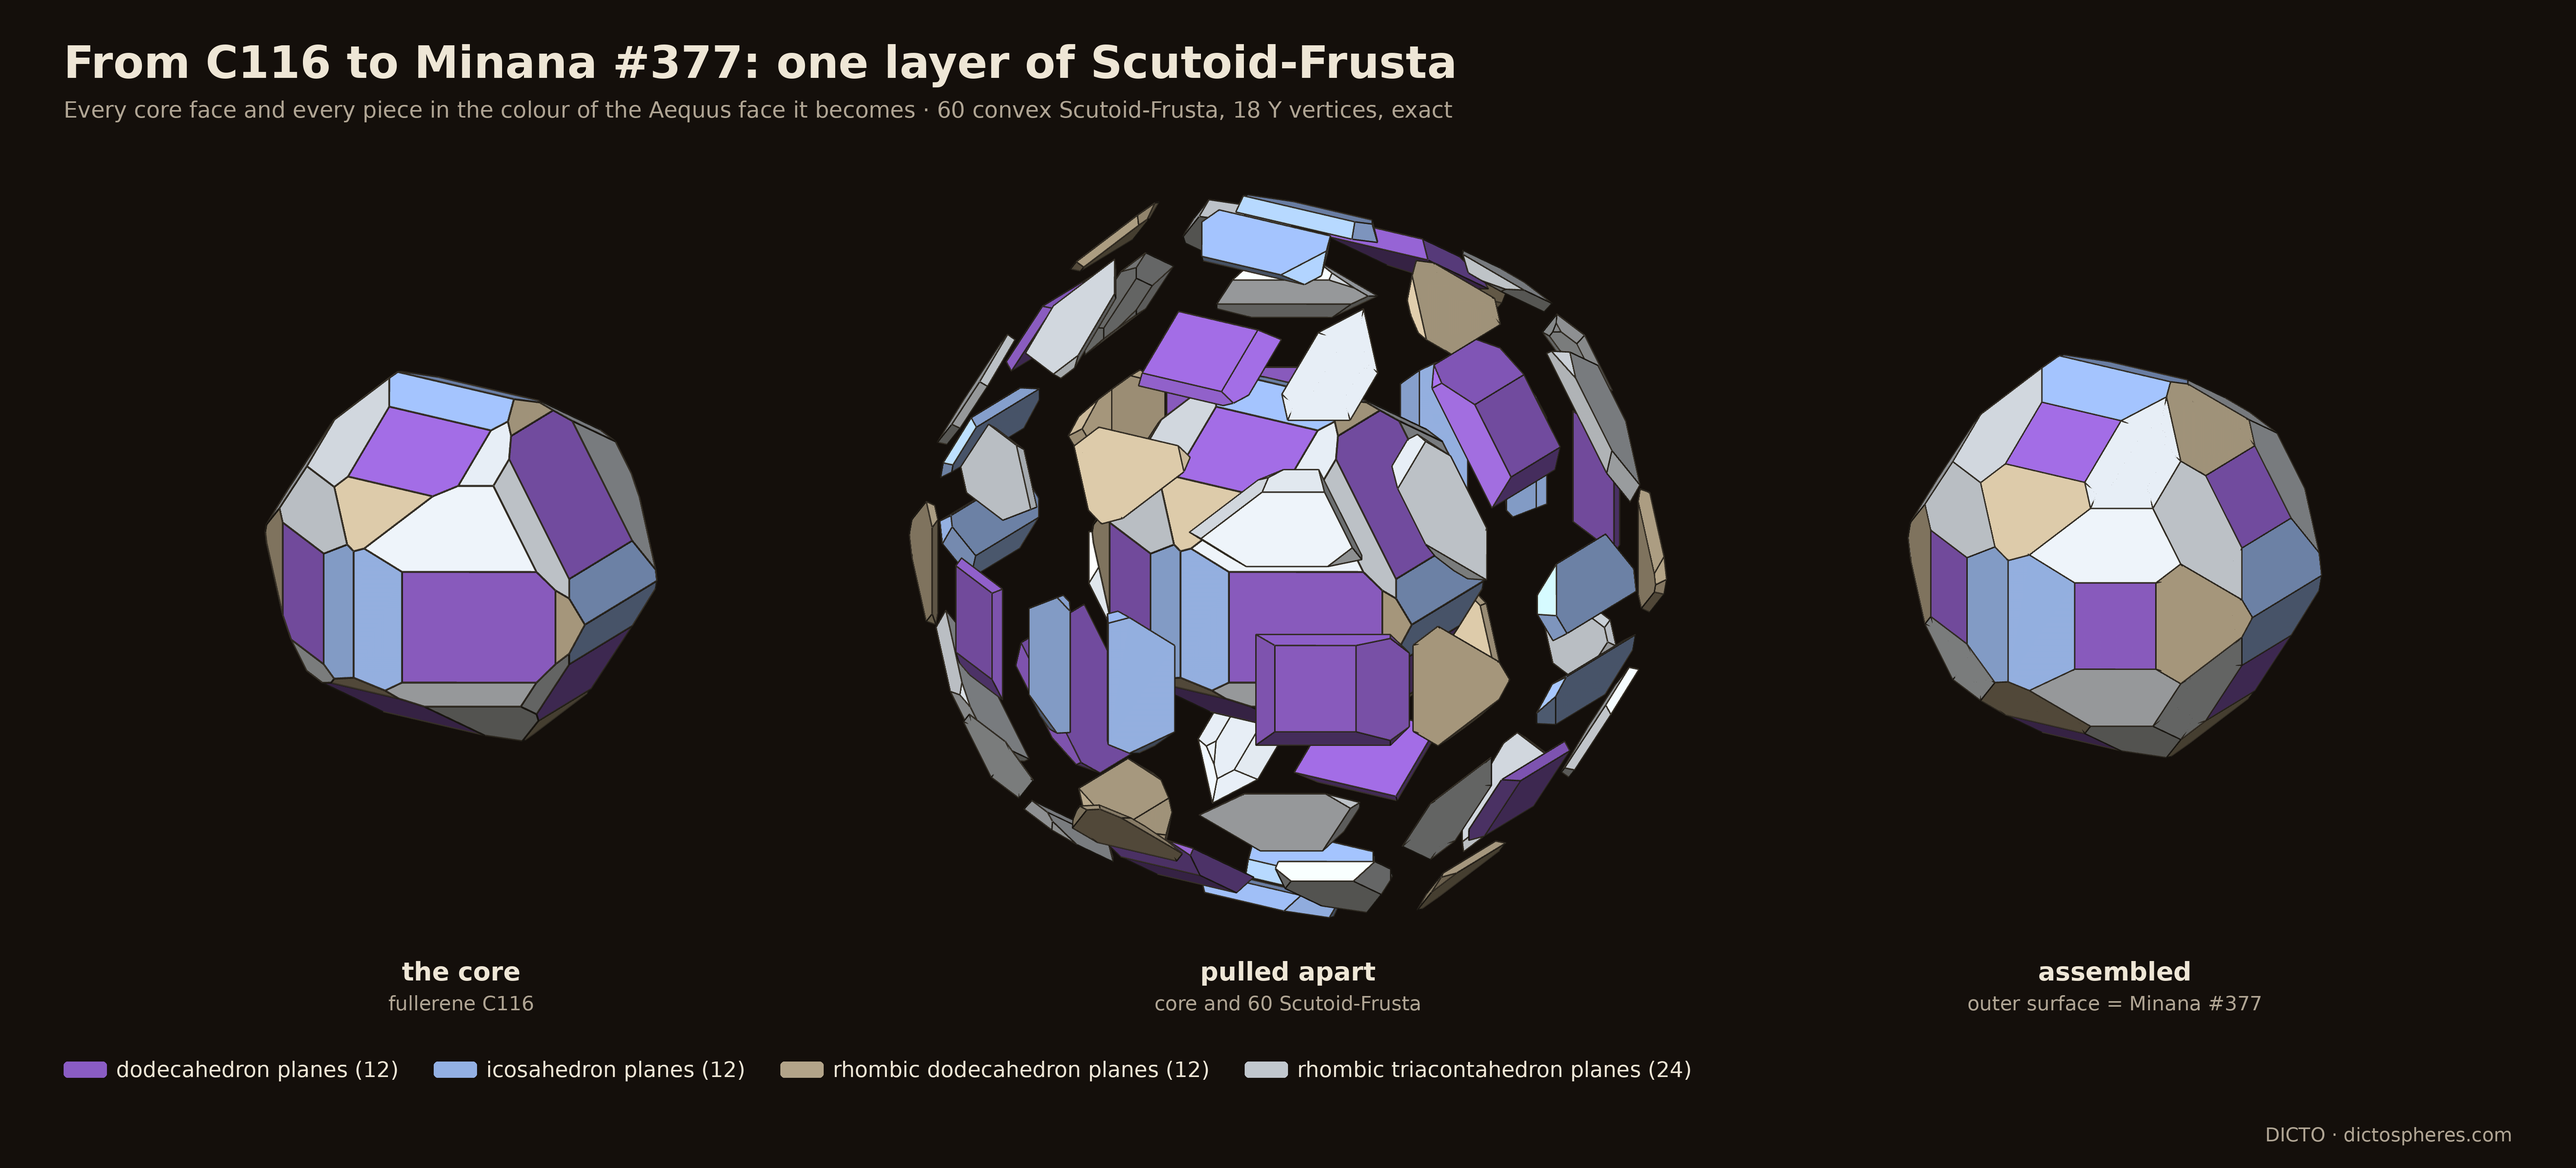
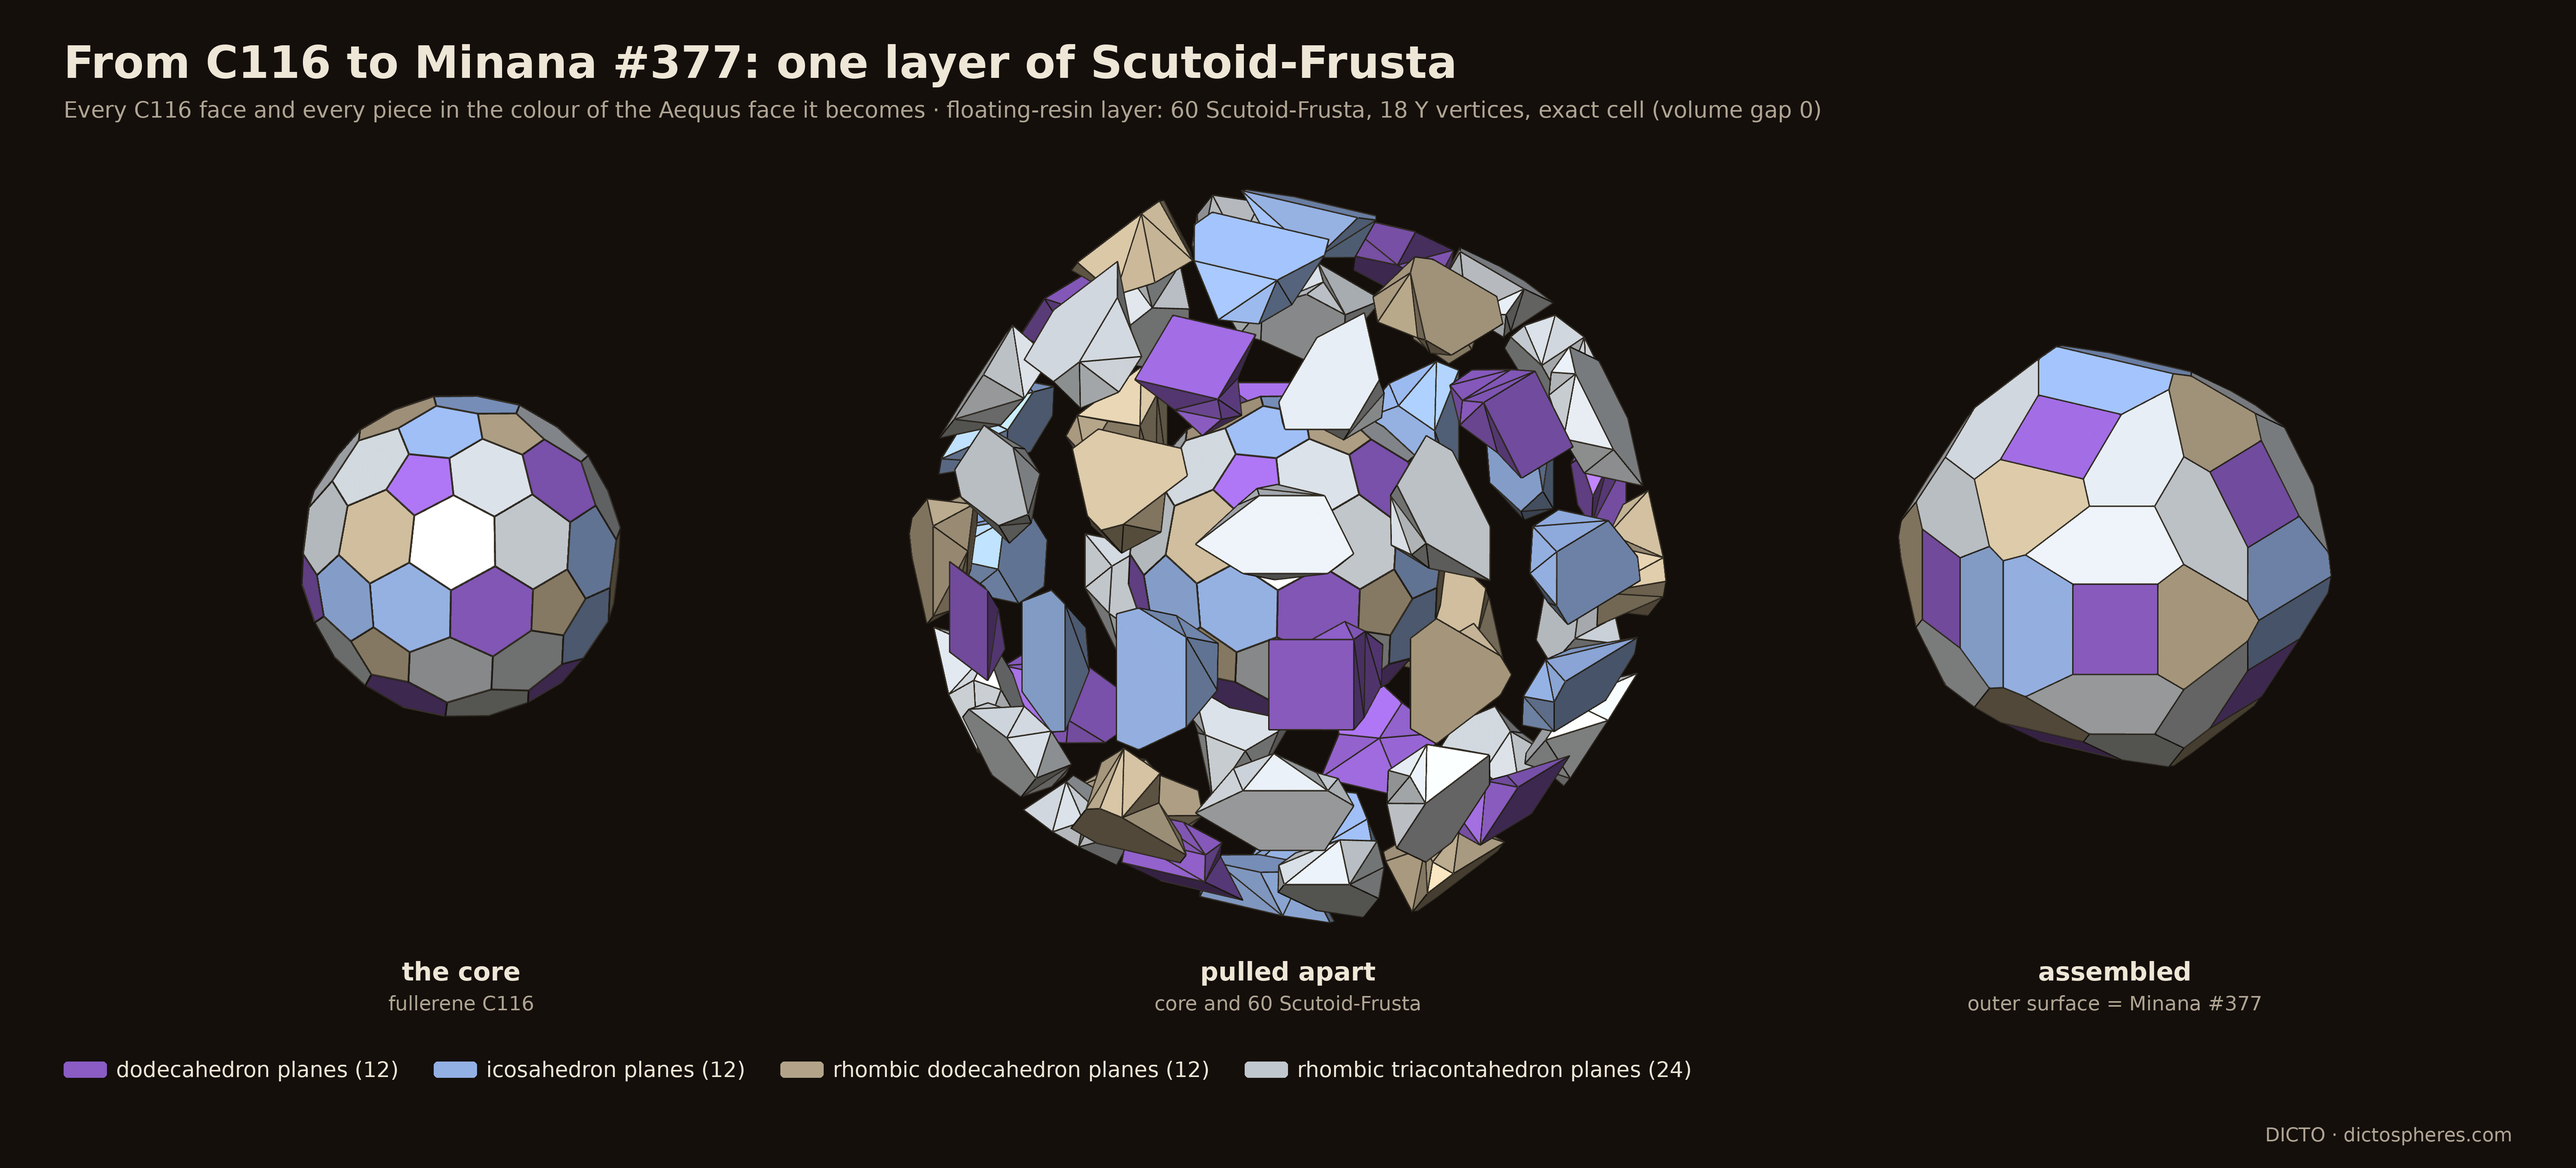
C116 Aequi-colour render: floating-resin layer, so the core keeps C116's own round shape (the Hollow-straw core is pressed into the die's planes)

diff --git a/studies/2026-11-24-aequi-vacuus-scutoids/scripts/render_aequi.py b/studies/2026-11-24-aequi-vacuus-scutoids/scripts/render_aequi.py
@@ -23,7 +23,9 @@ if sys.argv[1] == "scenes":
     from aequus_solid import build
     import aequus_solid as AS
     from collections import Counter
-    R = json.load(open(os.path.join(ROOT, 'data/cells/stand/hollow_straw_float.json')))
+    LAYER = os.environ.get('LAYER', 'float')   # 27 Nov (DICTO: "C116 core pieces aren't the same shape"): the floating-resin layer keeps
+    # C116's own round shape; the Hollow-straw core is pressed parallel to the die's faces and looks like the die
+    R = json.load(open(os.path.join(ROOT, 'data/cells/stand', 'amber_c116-layer0float_layer_6-5_cen.json' if LAYER == 'float' else 'hollow_straw_float.json')))
     sig = {int(k): int(v) for k, v in json.load(open(os.path.join(ROOT, 'data/c116/onefloor_float.json')))['pairing'].items()}
     S = build("aequus-377")
     # orbit colour per Minana face: the app's dice.json orbit order, matched to each face by its exact plane direction
@@ -35,26 +37,34 @@ if sys.argv[1] == "scenes":
     mcol = [lab[A.key(u)] for u, c in S["planes"]]
     print('Minana #377 faces by colour key:', dict(Counter(mcol)), flush=True)
     assert sorted(Counter(mcol).values()) == [12, 12, 12, 24]
-    pcs = {int(p["F"]): p for p in R["pieces"]}          # hollow_straw.py numbers piece t by its MINANA face t (core face sigma^-1(t))
-    pcol = {t: mcol[t] for t in range(60)}
-    assert all(len(S["faces"][t][0]) == int(pcs[t]["sides_out"]) and sig[int(pcs[t]["core_face"])] == t for t in range(60)), "piece t must end on Minana face t"
+    pcs = {int(p["F"]): p for p in R["pieces"]}
     geo = {int(g["F"]): np.array(g["tris"]) for g in R["geom"]}
-    def dist_to_piece(c, T):
-        best = 9.0
-        for t in T:
-            a, b, cc = t; n = np.cross(b - a, cc - a); nn = np.linalg.norm(n)
-            if nn < 1e-14: continue
-            n /= nn; dpl = abs((c - a) @ n); p = c - ((c - a) @ n) * n
-            w = [np.cross(b - a, p - a) @ n, np.cross(cc - b, p - b) @ n, np.cross(a - cc, p - cc) @ n]
-            if min(w) >= -1e-9 or max(w) <= 1e-9: best = min(best, dpl)
-        return best
     V = np.array(R["solid_V"]); ctris, ccols = [], []
-    for f in R["solid_faces"]:
-        P = V[f]
-        for a in range(1, len(f) - 1):
-            t = P[[0, a, a + 1]]; c = t.mean(0)
-            k = min(range(60), key=lambda q: dist_to_piece(c, geo[q])); assert dist_to_piece(c, geo[k]) < 1e-6
-            ctris.append(t); ccols.append(colOf(pcol[k]))
+    if LAYER == 'float':     # piece k = C116 face k, ending on Minana face sigma(k); core face k = solid_faces[k]
+        C116 = json.load(open(os.path.join(ROOT, 'data/c116/pairing.json')))['faces']
+        assert all(len(S["faces"][sig[k]][0]) == int(pcs[k]["sides_out"]) and len(C116[k]) == int(pcs[k]["sides_in"]) == len(R["solid_faces"][k]) for k in range(60))
+        pcol = {k: mcol[sig[k]] for k in range(60)}
+        for k, f in enumerate(R["solid_faces"]):
+            P = V[f]
+            for a in range(1, len(f) - 1): ctris.append(P[[0, a, a + 1]]); ccols.append(colOf(pcol[k]))
+    else:                    # hollow_straw.py numbers piece t by its MINANA face t
+        pcol = {t: mcol[t] for t in range(60)}
+        assert all(len(S["faces"][t][0]) == int(pcs[t]["sides_out"]) and sig[int(pcs[t]["core_face"])] == t for t in range(60))
+        def dist_to_piece(c, T):
+            best = 9.0
+            for t in T:
+                a, b, cc = t; n = np.cross(b - a, cc - a); nn = np.linalg.norm(n)
+                if nn < 1e-14: continue
+                n /= nn; dpl = abs((c - a) @ n); p = c - ((c - a) @ n) * n
+                w = [np.cross(b - a, p - a) @ n, np.cross(cc - b, p - b) @ n, np.cross(a - cc, p - cc) @ n]
+                if min(w) >= -1e-9 or max(w) <= 1e-9: best = min(best, dpl)
+            return best
+        for f in R["solid_faces"]:
+            P = V[f]
+            for a in range(1, len(f) - 1):
+                t = P[[0, a, a + 1]]; c = t.mean(0)
+                k = min(range(60), key=lambda q: dist_to_piece(c, geo[q])); assert dist_to_piece(c, geo[k]) < 1e-6
+                ctris.append(t); ccols.append(colOf(pcol[k]))
     core = mesh_part(ctris, ccols, 0.0024)
     def pieces(shift):
         return [mesh_part(list(T + shift * T.reshape(-1, 3).mean(0)), [colOf(pcol[k])] * len(T), 0.0018) for k, T in geo.items()]
@@ -74,7 +84,7 @@ else:
     Cp.OUT = os.path.join(ROOT, "renders"); Cp.MARK = "DICTO · dictospheres.com"
     meta = json.load(open(os.path.join(D, "meta.json"))); hexrgb = lambda h: tuple(int(h[i:i + 2], 16) for i in (1, 3, 5))
     Cp.figure("RENDER-c116-minana-aequi.png", "From C116 to Minana #377: one layer of Scutoid-Frusta",
-              "Every core face and every piece in the colour of the Aequus face it becomes · 60 convex Scutoid-Frusta, 18 Y vertices, exact",
+              "Every C116 face and every piece in the colour of the Aequus face it becomes · floating-resin layer: 60 Scutoid-Frusta, 18 Y vertices, exact cell (volume gap 0)",
               [(os.path.join(D, "p0.png"), "the core", "fullerene C116"), (os.path.join(D, "p1.png"), "pulled apart", "core and 60 Scutoid-Frusta"),
                (os.path.join(D, "p2.png"), "assembled", "outer surface = Minana #377")],
               [(hexrgb(colOf(k)), f"{SOLID[k.replace('2', '')]} planes ({meta[k]})") for k in ('D', 'I2', 'RD', 'RT2') if k in meta], cell=1000)
